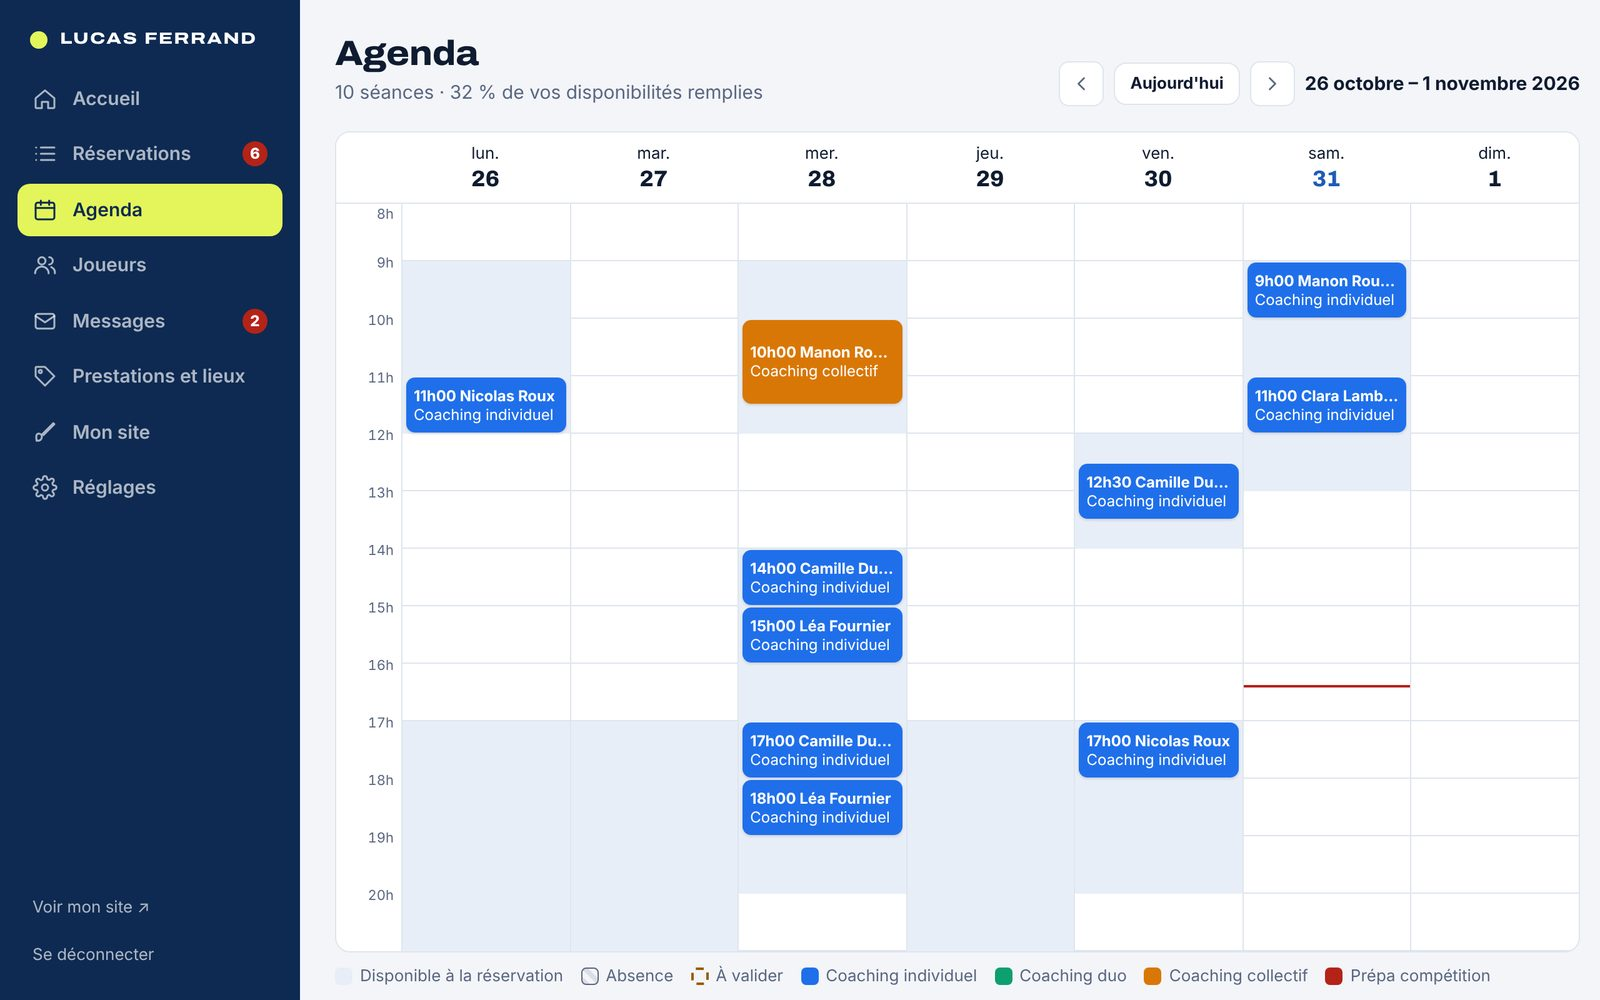
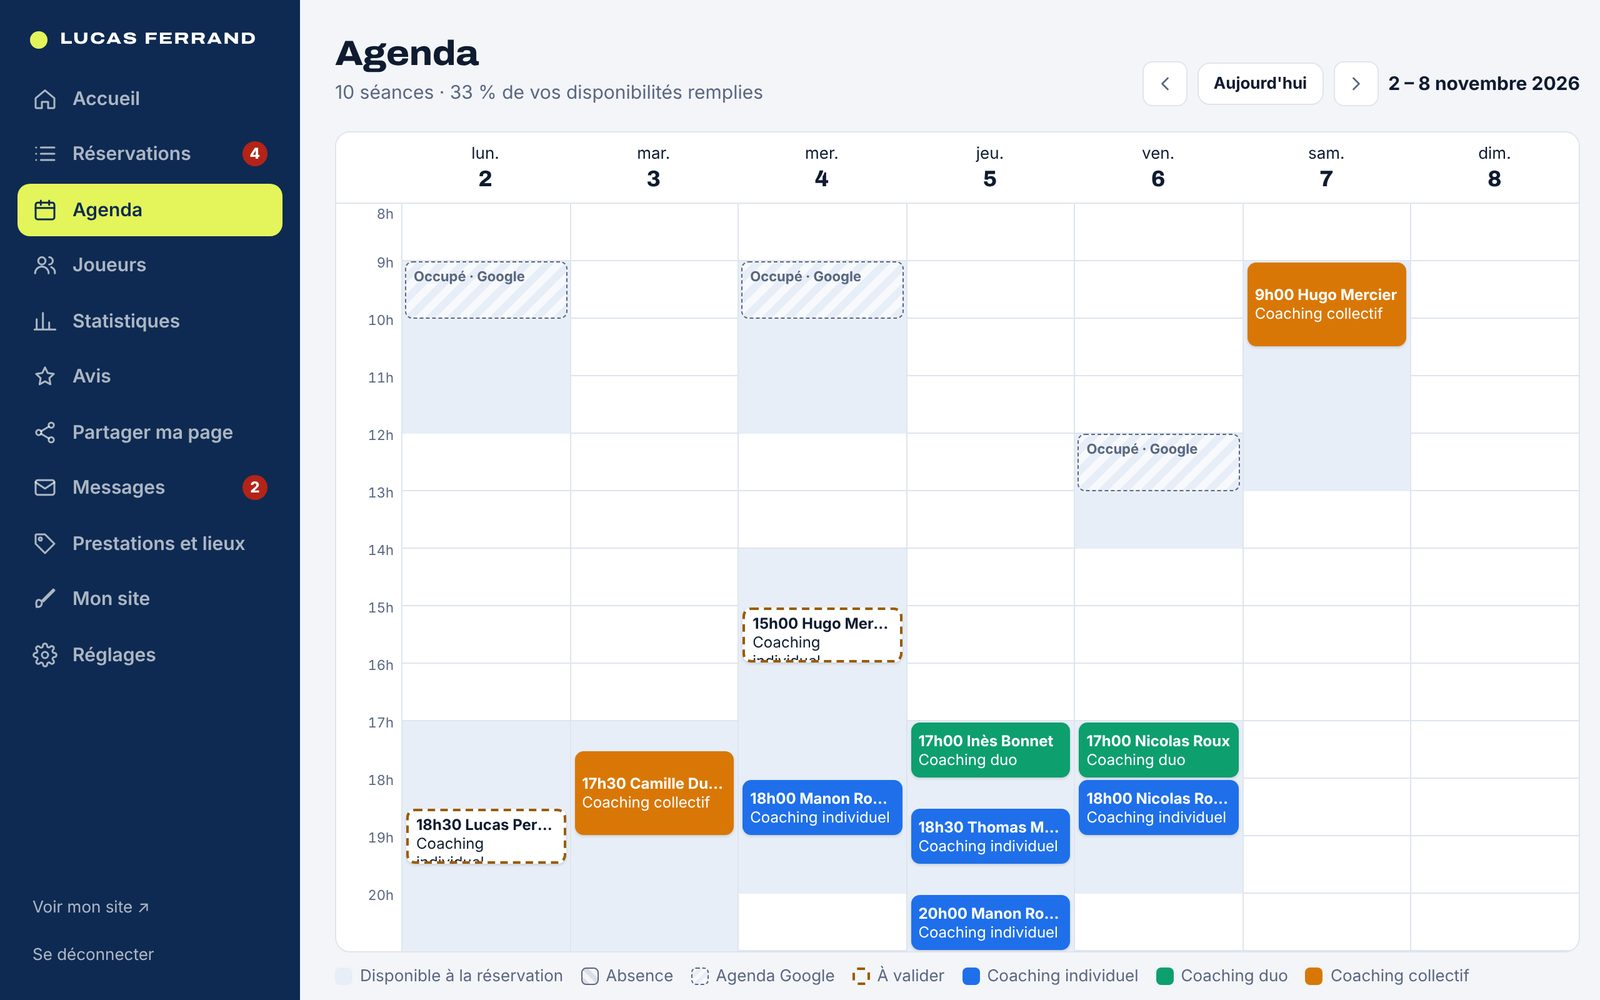
Add files via upload

diff --git a/index.html b/index.html
@@ -132,6 +132,7 @@
             <li><b>Disponibilités</b> récurrentes et <b>absences</b> (vacances, tournois) gérées en deux clics.</li>
             <li><b>Fiches joueurs</b> avec historique et notes, export de la liste.</li>
             <li><b>Suivi des paiements</b> : payé, à encaisser, absent.</li>
+            <li><b>Statistiques</b> à la semaine, au mois, à l'année : revenu, rétrocession due à chaque club, taux d'occupation, nouveaux élèves.</li>
             <li>S'installe sur l'écran d'accueil du téléphone, <b>comme une application</b>.</li>
           </ul>
         </div>
@@ -141,16 +142,24 @@
       <div class="wide">
         <div class="wide__text">
           <h3 class="h3"><span class="tag">Sur ordinateur aussi</span>Votre semaine d'un coup d'œil</h3>
-          <p>L'agenda montre vos séances et vos disponibilités. Il se synchronise avec <b>Google Agenda</b> ou <b>Apple Calendrier</b> : vos cours apparaissent à côté de vos rendez-vous perso.</p>
+          <p>L'agenda montre vos séances et vos disponibilités. Il se synchronise avec <b>Google Agenda</b> dans les deux sens : vos cours apparaissent dans votre agenda, et vos rendez-vous perso bloquent automatiquement vos créneaux sur le site.</p>
         </div>
         <figure class="browser"><span class="browser__bar" aria-hidden="true"><i></i><i></i><i></i></span><img src="media/agenda.jpg" alt="Agenda de la semaine dans l'espace coach" width="1600" height="1000" loading="lazy"></figure>
       </div>
 
+      <div class="wide">
+        <div class="wide__text">
+          <h3 class="h3"><span class="tag">Vos chiffres</span>Revenu, club et occupation, sans tableur</h3>
+          <p>À la semaine, au mois ou à l'année : votre revenu, ce que vous devez à chaque club (au pourcentage, à l'heure, à la séance ou au forfait), vos séances, vos nouveaux élèves, votre taux d'occupation et votre <b>note de coaching</b> sur 5.</p>
+        </div>
+        <figure class="browser"><span class="browser__bar" aria-hidden="true"><i></i><i></i><i></i></span><img src="media/statistiques.jpg" alt="Statistiques du mois dans l'espace coach" width="1600" height="1000" loading="lazy"></figure>
+      </div>
+
       <div class="grid4">
         <div class="mini"><h4>Vous modifiez tout seul</h4><p>Textes, photos, couleurs, prix, horaires : sans appeler personne.</p></div>
-        <div class="mini"><h4>Messages centralisés</h4><p>Les demandes du formulaire de contact arrivent dans votre espace.</p></div>
+        <div class="mini"><h4>Avis vérifiés</h4><p>Après chaque séance, l'élève note en un geste. Votre note sur 5 s'affiche sur votre site.</p></div>
         <div class="mini"><h4>Hébergé en Europe</h4><p>Données sécurisées et sauvegardées, conformes au RGPD.</p></div>
-        <div class="mini"><h4>Toujours à jour</h4><p>Les nouvelles fonctions arrivent sans supplément.</p></div>
+        <div class="mini"><h4>Partage en un geste</h4><p>Lien prêt à envoyer sur WhatsApp, QR code, story Instagram et affiche pour le club.</p></div>
       </div>
     </div>
   </section>
@@ -185,7 +194,10 @@
           <li>Réservation en ligne 24&nbsp;h/24</li>
           <li>Espace coach sur téléphone et ordinateur</li>
           <li>Emails de confirmation et de rappel</li>
-          <li>Agenda synchronisé Google / Apple</li>
+          <li>Agenda Google synchronisé dans les deux sens</li>
+          <li>Avis vérifiés et note de coaching sur 5</li>
+          <li>Statistiques et rétrocession aux clubs</li>
+          <li>QR code, story et affiche à partager</li>
           <li>Fiches joueurs et suivi des paiements</li>
           <li>Hébergement, sécurité et sauvegardes</li>
           <li>Mises à jour et nouvelles fonctions</li>
@@ -212,6 +224,10 @@
           <p>Oui. Vous ajoutez vos clubs et vous indiquez où se passe chaque prestation. L'élève voit le lieu avant de réserver.</p></details>
         <details><summary>Je peux valider les demandes avant qu'elles soient confirmées ?</summary>
           <p>Oui, c'est vous qui choisissez : réservation confirmée directement, ou demande à valider depuis votre espace coach.</p></details>
+        <details><summary>Mes rendez-vous perso dans Google Agenda sont-ils pris en compte ?</summary>
+          <p>Oui. Vous collez une fois l'adresse privée de votre Google Agenda (ou iCloud, Outlook) : vos rendez-vous perso rendent ces horaires indisponibles sur votre site, mis à jour toutes les 15 minutes. Seules les heures sont lues, jamais le contenu. Et vos séances réservées apparaissent dans votre agenda.</p></details>
+        <details><summary>Les avis des élèves sont-ils fiables ?</summary>
+          <p>Oui : seuls les élèves qui ont eu une séance peuvent noter, grâce à un lien reçu par email après le cours. Vous pouvez répondre à chaque avis, et signaler un avis abusif, mais pas le supprimer. C'est ce qui rend votre note crédible.</p></details>
         <details><summary>Et le paiement des séances ?</summary>
           <p>Pour l'instant, vos élèves vous paient comme aujourd'hui (sur place, virement…). Vous notez dans l'appli ce qui est payé ou à encaisser. Le paiement en ligne est prévu dans une prochaine version.</p></details>
         <details><summary>Je peux avoir mon propre nom de domaine ?</summary>
